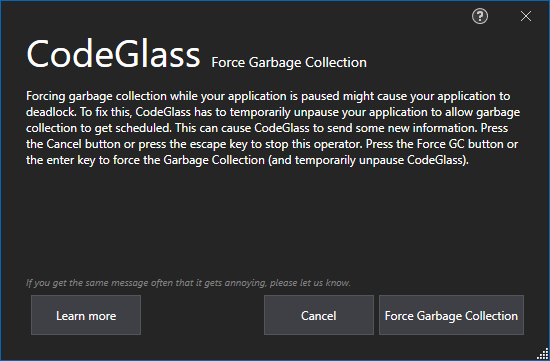
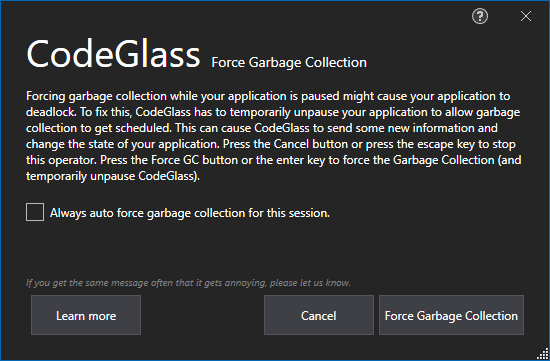
Updated force gc docs

Changed region(s): [[0.0309, 0.3352, 0.9582, 0.518], [0.0927, 0.5789, 0.6182, 0.6094]]

diff --git a/_docs/views/Dialogs.md b/_docs/views/Dialogs.md
@@ -104,4 +104,6 @@ If you ever get this dialog, please report it with a screenshot and how you trig
 
 You can get this dialog when you try to force the garbage collection to run while your application is in a paused state. Here you can choose to either cancel or force the garbage collection anyways. When you cancel nothing happens. When you force the garbage collection anyways CodeGlass first has to unpause your application to schedule the garbage collection. After that your application will be paused again.
 
+If you check the checkbox and after that press the "Force Garbage Collection" button or press the "Enter" key, CodeGlass remembers this and not show this popup again and automatically force the garbage collection when you press the button again. This setting persist for the duration that the client is open. If you restart the CodeGlass client you will have to re-check this checkbox.
+
 This unpausing is needed due to how garbage collection works. For garbage collection to work, the garbage collector needs to gain a "lock" on every executing thread. Because the application is paused, CodeGlass prevents some functions from continuing which prevents the garbage collector from gaining that lock. To bypass this problem CodeGlass needs to unpause your application and than schedule the garbage collector. This way it can get the locks on the executing threads. After the garbage collection has been scheduled CodeGlass re-pauses the application. This unpausing does have the downside that some new data will be send to CodeGlass during this unpaused moment. So keep in mind that your data might change when you force the garbage collection when in a paused state.
